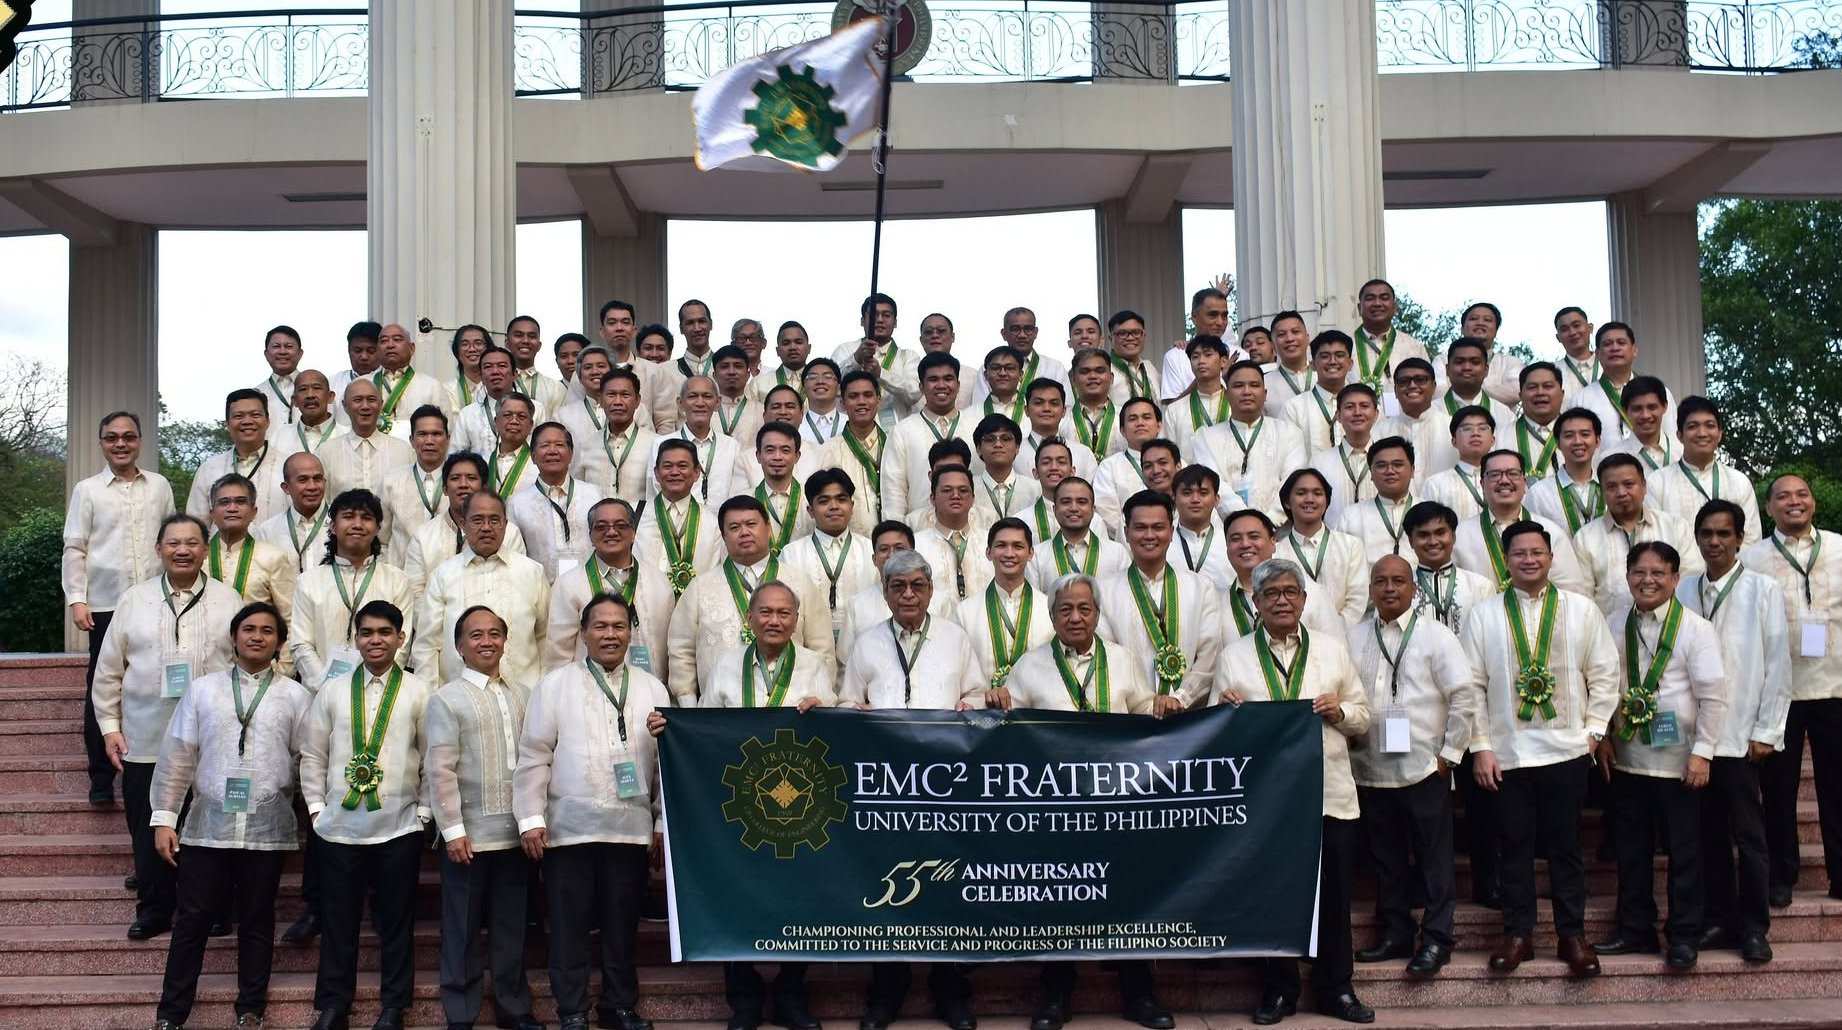
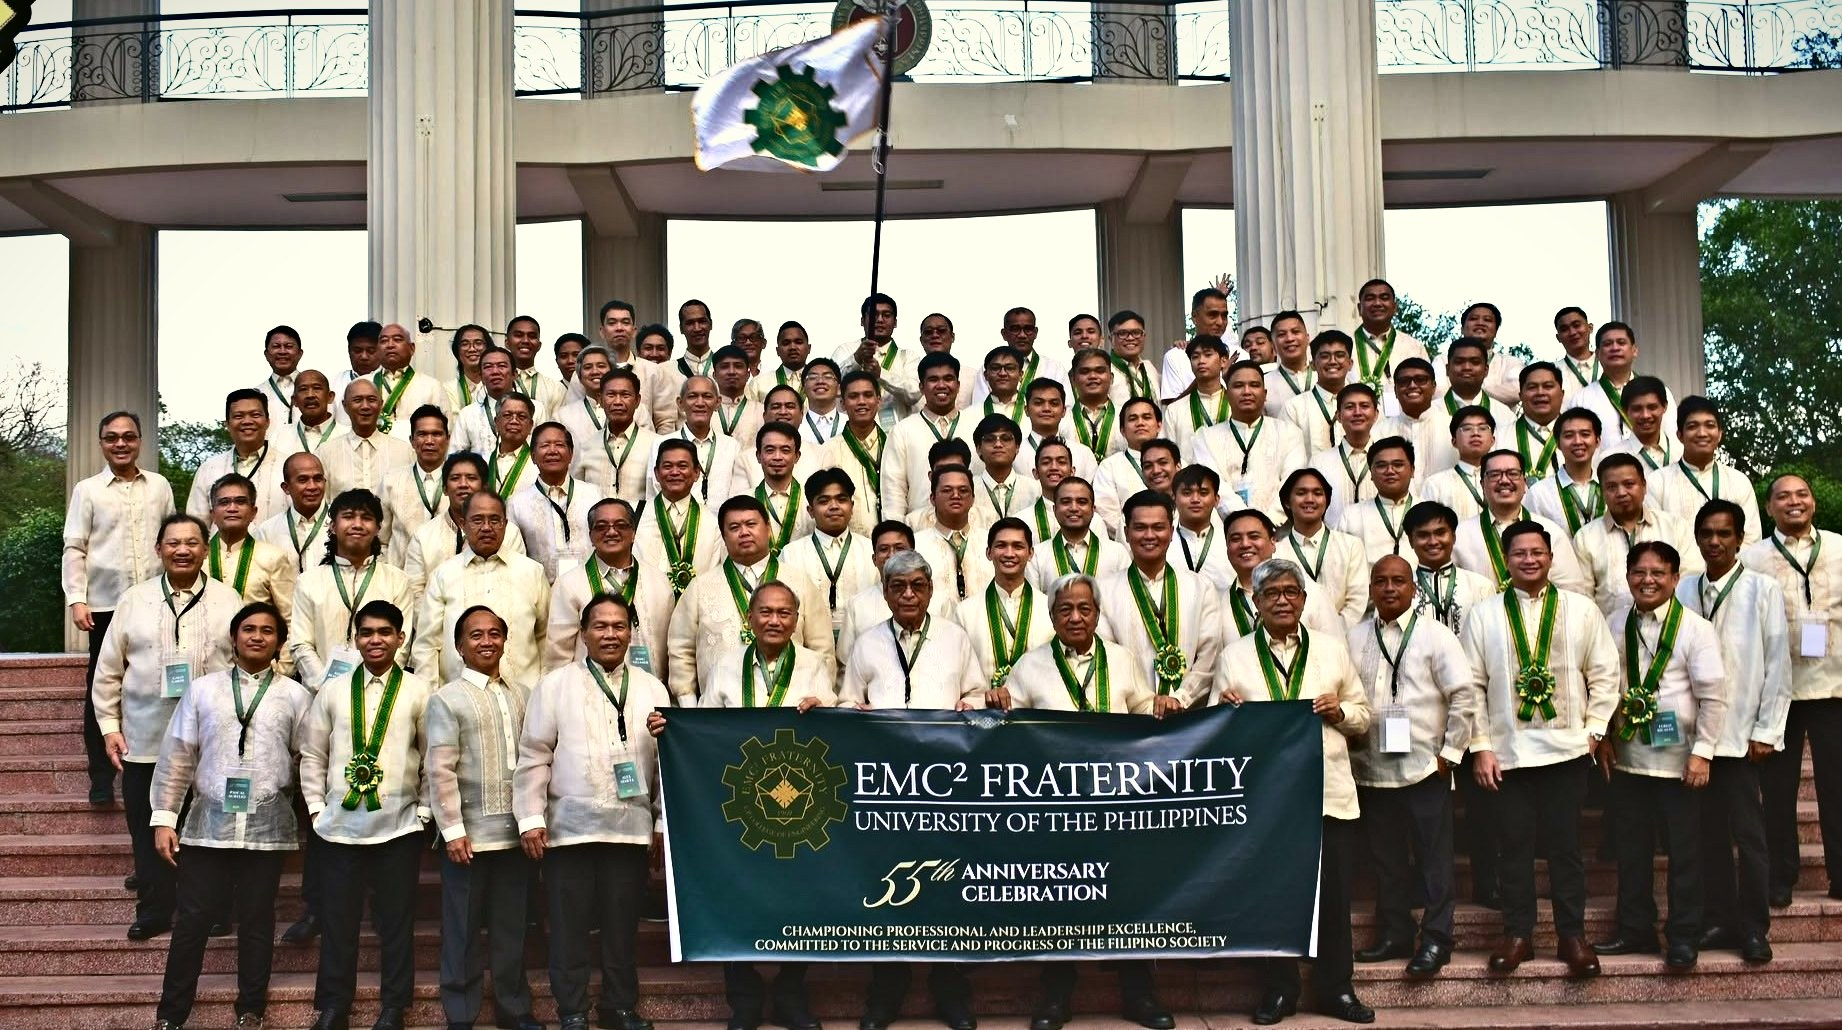
Grade the photographs to the brand, and put the University in the navbar
The photographs were flat: an overcast day, shot from a distance, washing
everything grey. Rather than a generative "enhancement" — these are real
photographs of identifiable brods, and a generative pass repaints faces —
they now carry a proper colour grade, written down as a reproducible preset.

scripts/grade-photographs.py applies, in a colourist's order: dehaze and
black point (a per-channel percentile stretch), shadow lift, an S-curve
around a mid pivot, a split tone with --frat-green in the shadows and
--frat-gold in the highlights, vibrance (which spares skin where plain
saturation would not), clarity from a wide-radius unsharp mask on luminance
only, and a slight vignette. Two strengths: GROUP for the group photographs,
PORTRAIT at roughly half for faces.

- Untouched originals moved to assets/photos-ungraded/, outside public/ so
  they are never served; each run re-grades from those, so running twice
  never compounds and any amount can be retuned safely.
- --check --out DIR writes before/after pairs instead of overwriting.
- Unused uncropped originals (anniv55-group-*, about-info-card) moved out of
  public/ entirely.
- Navbar: the lockup's own two lines, "EMC² Fraternity" over "University of
  the Philippines".
- DESIGN.md gains a Photography section; GLOSSARY.md section 13 is the
  colourist's vocabulary (split tone, dehaze, S-curve, pivot, clipping,
  vibrance vs saturation, clarity, unsharp mask, halo, vignette, luminance,
  non-destructive).

diff --git a/components/site/navbar.tsx b/components/site/navbar.tsx
@@ -40,8 +40,15 @@ export function Navbar() {
       <div className="island mx-auto flex h-16 max-w-6xl items-center justify-between rounded-full pr-2 pl-5 md:pl-6">
         <Link href="/" onClick={() => setOpen(false)} aria-label="EMC² Fraternity, home" className="flex items-center">
           <Image src="/logo/emc2-mark.svg" alt="" width={114} height={114} unoptimized className="h-9 w-9" />
-          <span className="ml-3 hidden font-display text-[15px] font-bold tracking-wide text-[var(--fg)] sm:block">
-            EMC&sup2; Fraternity
+          {/* The lockup's own two-line arrangement: the name, the University
+              beneath it, the way it is set on the banner and the seal. */}
+          <span className="ml-3 hidden leading-none sm:block">
+            <span className="block font-display text-[15px] font-bold tracking-wide text-[var(--fg)]">
+              EMC&sup2; Fraternity
+            </span>
+            <span className="mt-1 block font-display text-[9.5px] font-semibold tracking-[0.14em] text-[var(--fg)]/60 uppercase">
+              University of the Philippines
+            </span>
           </span>
         </Link>
 

diff --git a/scripts/grade-photographs.py b/scripts/grade-photographs.py
@@ -1,0 +1,226 @@
+"""The EMC² photographic grade.
+
+Every photograph on the site is a real photograph of real brods, so nothing
+here invents pixels: no generative "enhancement", no faces repainted, no
+objects added or removed. This is the same set of adjustments a colourist
+would apply in Lightroom, written down so it is reproducible and identical
+across every image on the site.
+
+The grade is the brand, in light:
+
+  shadows lean green   (--frat-green, #0c3e06)
+  highlights lean gold (--frat-gold,  #c38f0e)
+
+which is a *split tone*: one colour pushed into the dark end of the range and
+another into the light end. It is why the photographs now feel like they
+belong to the same site as the seal, without anyone noticing a filter.
+
+Order of operations, the same order a colourist works in:
+
+  1. dehaze / black point  stretch each channel off its own percentiles, so an
+                           overcast sky stops washing the whole frame grey
+  2. shadow lift           open the dark end so faces under a bright sky read
+  3. S-curve               contrast added around a mid pivot, smoothly, so
+                           neither the barongs nor the shadows clip
+  4. split tone            the green/gold pass described above
+  5. vibrance              saturation that spares what is already saturated,
+                           so skin does not go orange
+  6. clarity               a wide-radius unsharp mask on luminance only:
+                           local contrast, not sharpening
+  7. vignette              a very slight darkening at the corners
+
+Run:  python scripts/grade-photographs.py           (grades everything listed)
+      python scripts/grade-photographs.py --check   (writes before/after pairs)
+
+The untouched original of every graded photograph is kept in
+assets/photos-ungraded/ (outside public/, so it is never served). Each run
+re-grades from that original, so running this twice never compounds the
+effect, and changing an amount above and re-running is always safe.
+"""
+
+from __future__ import annotations
+
+import sys
+from pathlib import Path
+
+import numpy as np
+from PIL import Image, ImageFilter
+
+ROOT = Path(__file__).resolve().parent.parent
+PHOTOS = ROOT / "public" / "photos"
+# Originals live outside public/ so they are never served, only kept.
+ORIGINALS = ROOT / "assets" / "photos-ungraded"
+
+# --- the preset ----------------------------------------------------------
+
+SHADOW_TONE = np.array([0.047, 0.243, 0.024])  # --frat-green
+HIGHLIGHT_TONE = np.array([0.765, 0.561, 0.055])  # --frat-gold
+
+
+class Grade:
+    """One named set of amounts. `strength` scales the whole grade."""
+
+    def __init__(
+        self,
+        black_point=0.006,
+        white_point=0.999,
+        shadow_lift=0.16,
+        contrast=0.30,
+        pivot=0.46,
+        split=0.055,
+        vibrance=0.26,
+        clarity=0.32,
+        vignette=0.16,
+        warmth=0.020,
+    ):
+        self.black_point = black_point
+        self.white_point = white_point
+        self.shadow_lift = shadow_lift
+        self.contrast = contrast
+        self.pivot = pivot
+        self.split = split
+        self.vibrance = vibrance
+        self.clarity = clarity
+        self.vignette = vignette
+        self.warmth = warmth
+
+
+# The group photographs: flat, overcast, shot from a distance. They take the
+# full grade.
+GROUP = Grade(split=0.044, warmth=0.012)
+
+# Portraits: skin is the one thing a grade must not shift. Almost no warmth,
+# a third of the split tone, gentle everything.
+PORTRAIT = Grade(
+    shadow_lift=0.08,
+    contrast=0.16,
+    split=0.016,
+    vibrance=0.11,
+    clarity=0.16,
+    vignette=0.08,
+    warmth=0.003,
+)
+
+# Only what the site actually serves.
+TARGETS: list[tuple[str, Grade]] = [
+    ("anniv55-outdoor.jpg", GROUP),
+    ("anniv55-gazebo.jpg", GROUP),
+    ("anniv55-stage.jpg", GROUP),
+    ("brod-ison-portrait.jpg", PORTRAIT),
+    ("brod-salanguit-portrait.jpg", PORTRAIT),
+    ("projects-campaigns-card.jpg", PORTRAIT),
+    ("og-default.jpg", PORTRAIT),
+]
+
+# Rec. 709 luminance weights, the standard for "how bright does this look".
+LUMA = np.array([0.2126, 0.7152, 0.0722])
+
+
+def luminance(rgb: np.ndarray) -> np.ndarray:
+    return rgb @ LUMA
+
+
+def smoothstep(x: np.ndarray) -> np.ndarray:
+    return x * x * (3.0 - 2.0 * x)
+
+
+def apply_grade(img: Image.Image, g: Grade) -> Image.Image:
+    rgb = np.asarray(img.convert("RGB"), dtype=np.float32) / 255.0
+
+    # 1. dehaze / black point. Percentiles per channel remove a colour cast in
+    #    the haze as well as the haze itself.
+    lo = np.percentile(rgb, g.black_point * 100, axis=(0, 1))
+    hi = np.percentile(rgb, g.white_point * 100, axis=(0, 1))
+    rgb = np.clip((rgb - lo) / np.maximum(hi - lo, 1e-5), 0.0, 1.0)
+
+    # 2. shadow lift, weighted to the dark end only
+    lum = luminance(rgb)[..., None]
+    rgb = rgb + (1.0 - rgb) * g.shadow_lift * np.square(1.0 - lum)
+
+    # 3. S-curve around the pivot: blend toward a smoothstep of the range,
+    #    which adds contrast without the hard clipping of a linear stretch.
+    x = np.clip((rgb - g.pivot) * 0.5 + 0.5, 0.0, 1.0)
+    s = (smoothstep(x) - 0.5) * 2.0 + g.pivot
+    rgb = np.clip(rgb * (1.0 - g.contrast) + s * g.contrast, 0.0, 1.0)
+
+    # 4. split tone: green into the shadows, gold into the highlights
+    lum = luminance(rgb)[..., None]
+    shadow_w = np.square(1.0 - lum)
+    highlight_w = np.square(lum)
+    rgb = rgb + (SHADOW_TONE - 0.5) * shadow_w * g.split * 2.0
+    rgb = rgb + (HIGHLIGHT_TONE - 0.5) * highlight_w * g.split * 2.0
+
+    # a touch of overall warmth: the day was grey, the record should not be
+    rgb[..., 0] += g.warmth
+    rgb[..., 2] -= g.warmth * 0.8
+    rgb = np.clip(rgb, 0.0, 1.0)
+
+    # 5. vibrance: saturate least where the pixel is already saturated
+    lum = luminance(rgb)[..., None]
+    sat = rgb.max(axis=2, keepdims=True) - rgb.min(axis=2, keepdims=True)
+    amount = g.vibrance * (1.0 - np.clip(sat * 1.6, 0.0, 1.0))
+    rgb = np.clip(lum + (rgb - lum) * (1.0 + amount), 0.0, 1.0)
+
+    # 6. clarity: local contrast from a wide blur of the luminance
+    lum = luminance(rgb)
+    radius = max(rgb.shape[0], rgb.shape[1]) / 110.0
+    blurred = np.asarray(
+        Image.fromarray((lum * 255).astype(np.uint8)).filter(ImageFilter.GaussianBlur(radius)),
+        dtype=np.float32,
+    ) / 255.0
+    detail = (lum - blurred)[..., None]
+    # spare the extremes so skies and shadows do not halo
+    mask = (1.0 - np.square(2.0 * lum[..., None] - 1.0))
+    rgb = np.clip(rgb + detail * g.clarity * mask * 1.6, 0.0, 1.0)
+
+    # 7. vignette
+    h, w = rgb.shape[:2]
+    yy, xx = np.mgrid[0:h, 0:w]
+    nx = (xx / (w - 1) - 0.5) * 2.0
+    ny = (yy / (h - 1) - 0.5) * 2.0
+    r = np.sqrt(nx * nx + ny * ny) / np.sqrt(2.0)
+    falloff = np.clip((r - 0.55) / 0.45, 0.0, 1.0) ** 2
+    rgb = np.clip(rgb * (1.0 - falloff[..., None] * g.vignette), 0.0, 1.0)
+
+    return Image.fromarray((rgb * 255.0 + 0.5).astype(np.uint8), "RGB")
+
+
+def source_for(path: Path) -> Path:
+    """The ungraded original, kept in assets/ on the first run and re-used
+    every run after, so grading twice never compounds the effect."""
+    ORIGINALS.mkdir(parents=True, exist_ok=True)
+    original = ORIGINALS / path.name
+    if not original.exists():
+        original.write_bytes(path.read_bytes())
+    return original
+
+
+def main() -> int:
+    check = "--check" in sys.argv
+    out_dir = Path(sys.argv[sys.argv.index("--out") + 1]) if "--out" in sys.argv else None
+
+    for name, g in TARGETS:
+        path = PHOTOS / name
+        if not path.exists():
+            print(f"skip  {name} (not found)")
+            continue
+        original = source_for(path)
+        img = Image.open(original)
+        graded = apply_grade(img, g)
+
+        if check and out_dir:
+            out_dir.mkdir(parents=True, exist_ok=True)
+            pair = Image.new("RGB", (img.width * 2, img.height))
+            pair.paste(img.convert("RGB"), (0, 0))
+            pair.paste(graded, (img.width, 0))
+            pair.thumbnail((1800, 1800))
+            pair.save(out_dir / f"{path.stem}-pair.jpg", quality=88)
+            print(f"pair  {name}")
+        else:
+            graded.save(path, quality=88, optimize=True, progressive=True)
+            print(f"grade {name}  {path.stat().st_size // 1024} KB")
+    return 0
+
+
+if __name__ == "__main__":
+    raise SystemExit(main())

diff --git a/GLOSSARY.md b/GLOSSARY.md
@@ -300,3 +300,27 @@ phideltatheta.org with our own brand. These are the words for what was borrowed.
 | **Animated `clip-path`** | Changing a clip polygon over time so a panel appears to grow or its edge to move. The chevron's points are written from the scroll progress with `useMotionTemplate`. | Same |
 | **`useScroll` with a target** | Framer's hook that reports progress through one element (0 at its top, 1 at its bottom) rather than the whole page. | `useScroll({ target, offset: ["start start", "end end"] })` |
 | **Recruitment page** | The page a landing page exists to send strangers to. The reference's first button is "Join"; ours is now too. | `app/join/page.tsx` |
+
+## 13. Colour grading: the words a colourist uses
+
+Added 3 September 2026, when the photographs were graded rather than left flat. These are
+the standard terms; the preset that uses them is `scripts/grade-photographs.py`.
+
+| Term | What it means | Where it lives here |
+|---|---|---|
+| **Colour grade** | A deliberate, consistent set of colour and tone adjustments applied to every image so a body of work looks like one body of work. Distinct from *correction*, which just fixes what is wrong. | The whole script |
+| **Preset / LUT** | A saved grade. A preset is the list of amounts (what we have); a LUT, look-up table, is the same thing baked into a table of colour values that hardware can apply instantly. | `GROUP` and `PORTRAIT` |
+| **Split tone** | Pushing one colour into the dark end of the range and a different one into the light end. Ours is green shadows and gold highlights, straight from the brand tokens. It is the single move that makes the photographs feel like they belong to this site. | `SHADOW_TONE`, `HIGHLIGHT_TONE` |
+| **Black point / white point** | Where the darkest and lightest tones sit. Stretching an image between new ones is a *levels* adjustment. | Step 1 |
+| **Dehaze** | Removing the flat grey veil an overcast sky or distance puts over a frame. Ours is a per-channel percentile stretch, which lifts the haze and its colour cast at once. | Step 1 |
+| **Shadow lift** | Opening up the dark end only, so faces under a bright sky become readable without brightening the whole frame. | Step 2 |
+| **Tone curve / S-curve** | A graph mapping input brightness to output. An S-shape darkens the darks and brightens the brights, which is what "more contrast" actually means. Ours blends toward a *smoothstep* so nothing clips. | Step 3 |
+| **Pivot** | The brightness the curve rotates around. Below it things get darker, above it lighter. | `pivot=0.46` |
+| **Clipping** | Pushing values past pure black or pure white, where detail is gone for good. The reason contrast is added with a curve, not a multiplication. | Why step 3 is an S-curve |
+| **Saturation vs. vibrance** | Saturation raises all colour equally and turns skin orange. Vibrance raises the *least* saturated colours most, so it enriches a scene while leaving faces alone. | Step 5 |
+| **Clarity / local contrast** | Contrast within small regions rather than across the whole image, made by subtracting a wide blur. It is what makes a photograph look crisp without looking sharpened. | Step 6 |
+| **Unsharp mask** | The technique behind clarity and sharpening: blur a copy, subtract it to isolate detail, add the detail back. Named from a darkroom practice. | Step 6 |
+| **Halo** | The bright outline an over-strong unsharp mask leaves along high-contrast edges. Ours is masked away from the extremes to prevent it. | The `mask` in step 6 |
+| **Vignette** | Darkening toward the corners, which pulls the eye to the centre. Subtle is the whole art of it. | Step 7 |
+| **Luminance** | Perceived brightness, not the average of the channels. The Rec. 709 weights (0.2126, 0.7152, 0.0722) reflect how much the eye takes from red, green, and blue. | `LUMA` |
+| **Non-destructive** | Never overwriting the original. Ours are kept in `assets/photos-ungraded/`, so the grade can be retuned or reverted forever. | `source_for()` |

diff --git a/DESIGN.md b/DESIGN.md
@@ -68,6 +68,25 @@ Gold is never body text on paper (2.45:1 fails). It is the dash and the navbar's
 - **Pending entries**: a left gold rule and a sentence.
 - **Forms**: white fields with a 12px radius in a rounded card.
 
+## Photography
+
+Every photograph is real, from the Association's own record. Nothing is generated, and
+nothing is generatively "enhanced": these are photographs of identifiable brods, and a
+generative pass repaints faces.
+
+What they do get is a **colour grade**, the same set of adjustments a colourist applies in
+Lightroom, written down as a reproducible preset in `scripts/grade-photographs.py`. The grade
+is the brand in light: shadows lean toward `--frat-green`, highlights toward `--frat-gold`,
+which is a *split tone*. Applied in a colourist's order: dehaze and black point, shadow lift,
+S-curve contrast, split tone, vibrance, clarity, vignette. Two strengths, `GROUP` for the
+flat overcast group photographs and `PORTRAIT` at roughly half for faces, because skin is the
+one thing a grade must not shift.
+
+Untouched originals live in `assets/photos-ungraded/`, outside `public/`, so nothing is lost
+and re-running the script never compounds the effect. To retune, change an amount in the
+script and run `python scripts/grade-photographs.py`; `--check --out DIR` writes before/after
+pairs instead of overwriting.
+
 ## Layout
 
 - Container `max-w-6xl`; sections `py-20 md:py-28`; sections alternate paper and tint.
